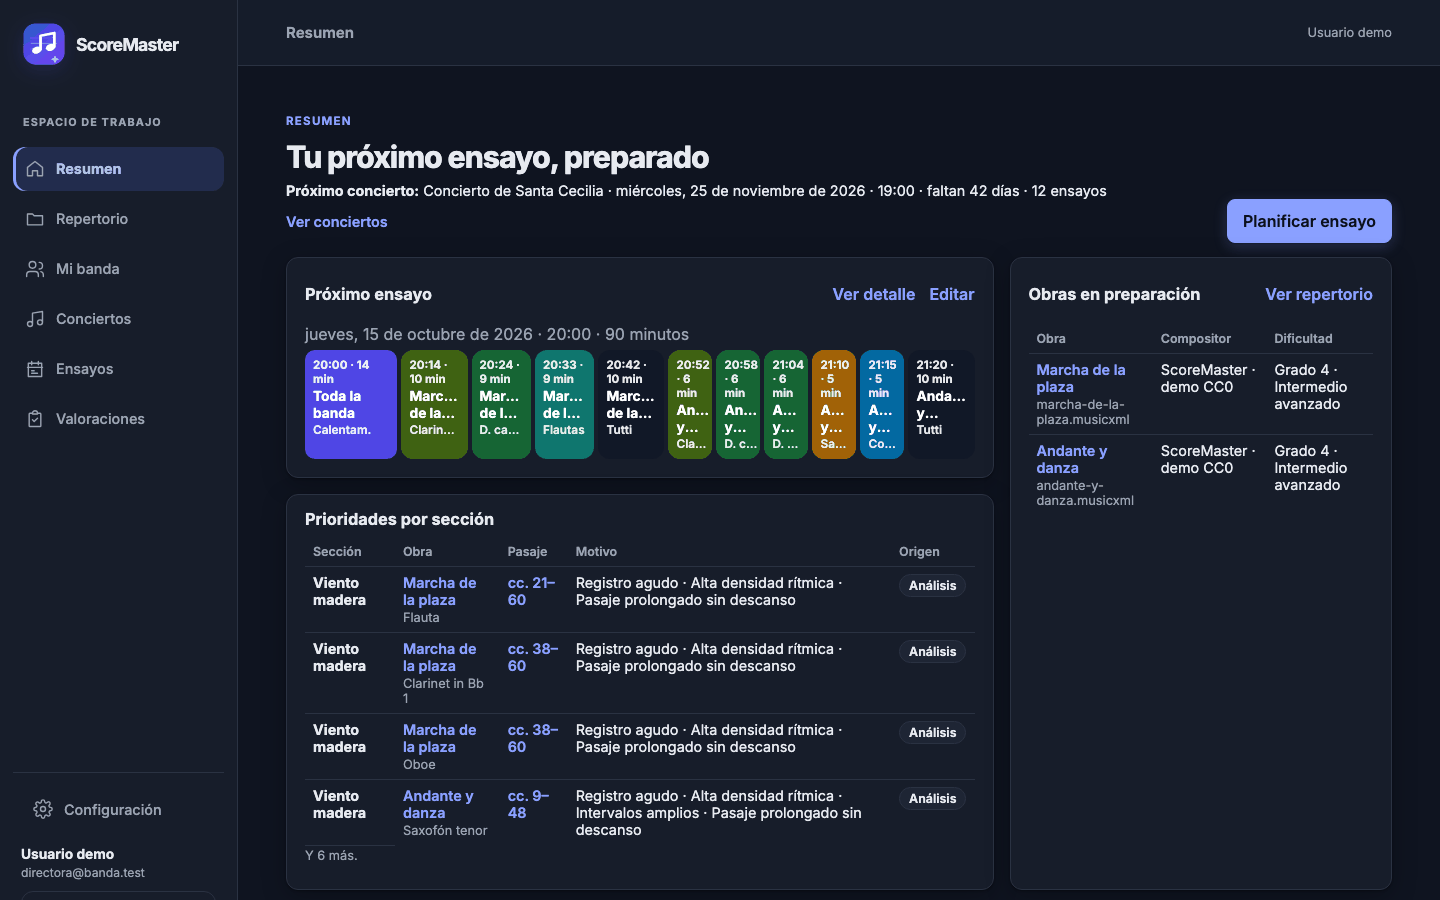
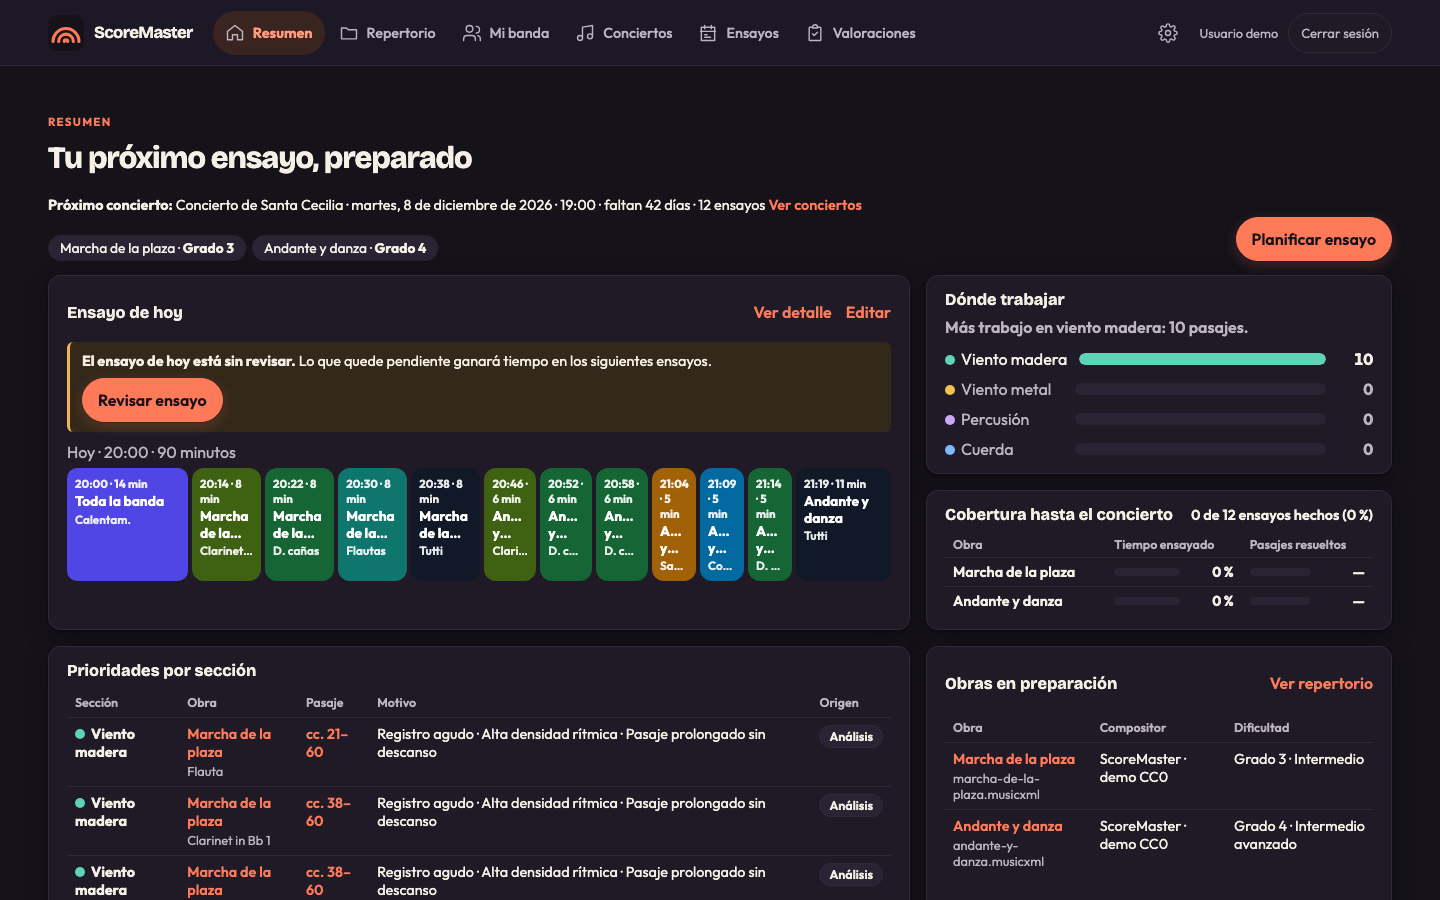
docs: capturas con el diseño «Sala de conciertos» y el plan al día con lo del 26 y 27 de octubre

diff --git a/docs/IMPLEMENTATION_ROADMAP.md b/docs/IMPLEMENTATION_ROADMAP.md
@@ -83,7 +83,8 @@ Las fases A3–A8 y el paso 25 se abordan solo si queda margen tras el paso 24.
 ## Propuesta de interfaz (2026-10-05)
 
 Navegación de la autora: Resumen · Repertorio · Mi banda · Ensayos · Asistente IA · Configuración,
-con blanco frío, grafito y azul eléctrico. Un ensayo puede trabajar varias obras y cada bloque de
+con blanco frío, grafito y azul eléctrico (sustituidos el 2026-10-26 por la identidad «Sala de conciertos»,
+más abajo). Un ensayo puede trabajar varias obras y cada bloque de
 su agenda indica la obra que se trabaja (decisiones de la autora).
 
 | Fase | Objetivo | Estado |
@@ -115,11 +116,11 @@ Entrega el 7 de noviembre. Decisiones de la autora: híbrido C preregistrado y o
 | 7 | Interfaz en inglés | Opcional | Pendiente, solo si queda tiempo |
 | 8 | Documentación de entrega | Imprescindible | Integrado: PR #107 (README, guía para el tribunal, seguridad, estados y licencia MIT) |
 
-Mejoras integradas durante el cierre, a petición de la autora: lectura del título de `<movement-title>` (PR #92), base de estilos única (PR #98), tipografía Inter (PR #99), modo oscuro (PR #100), sombras, transiciones y Resumen en cuadrícula (PR #101), equilibrio de volumen entre instrumentos (PR #102) y pentagramas del pasaje en partes de varios pentagramas (PR #103).
+Mejoras integradas durante el cierre, a petición de la autora: lectura del título de `<movement-title>` (PR #92), base de estilos única (PR #98), tipografía Inter (PR #99; sustituida por Bricolage Grotesque y Outfit en la PR #118), modo oscuro (PR #100), sombras, transiciones y Resumen en cuadrícula (PR #101), equilibrio de volumen entre instrumentos (PR #102) y pentagramas del pasaje en partes de varios pentagramas (PR #103).
 
 Opcional después de la entrega: búsqueda automática del grado publicado de una obra, como sugerencia que confirma la directora y solo cuando la página encontrada contiene título, compositor y grado (decisión de la autora, 2026-10-14).
 
-## Decisiones del 14 al 25 de octubre
+## Decisiones del 14 al 27 de octubre
 
 | Decisión | Estado |
 |---|---|
@@ -129,11 +130,25 @@ Opcional después de la entrega: búsqueda automática del grado publicado de un
 | La página se revalida tras cada despliegue | Integrado: PR #111 |
 | La base pasa a Neon, que no caduca; la aplicación sigue en Render | Integrado: PR #112 |
 | difficulty-v3: el grado sigue las guías de grados de las editoriales y explica qué criterio lo fija | Integrado: PR #113 (lectura de armadura, compás, tresillos, dinámicas, articulaciones y adornos) y PR #114 (rúbrica) |
-| difficulty-v4: la tabla de la Federación Galega de Bandas de Música prevalece sobre la del American Band College donde difieren (Do mayor sigue en grado 1); ninguna obra de referencia cambia de grado (2026-10-27) | Integrado en esta PR |
+| difficulty-v4: la tabla de la Federación Galega de Bandas de Música prevalece sobre la del American Band College donde difieren (Do mayor sigue en grado 1); ninguna obra de referencia cambia de grado (2026-10-27) | Integrado: PR #124 |
 | Segunda opinión con un modelo de pesos abiertos para el método B, junto a Gemini (Hugging Face o Vercel AI Gateway) | Pendiente de que la autora decida cómo pagar la API |
-| Lectura de PDF con copista-2m (modelo de Hugging Face, Apache 2.0), solo en Docker local | Pendiente: prueba de viabilidad con PDF de la autora; sustituye a Audiveris como candidata |
+| Lectura de PDF: prueba de viabilidad que compara copista-2m, copista-28m (Hugging Face, Apache 2.0) y Audiveris 5.11 con PDF digitales de obras con MusicXML de referencia (partituras generales y particellas); oemer y PDF2Muse, que se apoya en él, quedan descartados (2026-10-27) | Pendiente: lectura de los PDF por la autora y medida con ScoreLint |
 | Alojar la aplicación en Vercel | Aplazado a después de la entrega (ver [DEPLOYMENT.md](DEPLOYMENT.md)) |
 | Modelos de Hugging Face para la dificultad o bancos de sonido | Descartados: los de dificultad son de piano y no explicables; no hay bancos de viento con licencia clara |
+
+### Diseño y cuadro de mando (2026-10-26 y 27)
+
+| Decisión | Estado |
+|---|---|
+| El menú pasa a una barra superior y el contenido ocupa todo el ancho; en pantallas estrechas se pliega tras «Menú» | Integrado: PR #116 |
+| WCAG 2.1 A y AA como requisito legal: auditoría con axe-core en todas las pantallas (claro, oscuro y móvil) dentro de la CI | Integrado: PR #121 |
+| Identidad «Sala de conciertos»: paleta con contraste AA, Bricolage Grotesque y Outfit, botones de acción en píldora y logo de los arcos de la banda | Integrado: PR #118 |
+| Cuadro de mando de la directora: «Dónde trabajar» por familias y el programa del próximo concierto con su grado | Integrado: PR #119 |
+| La pantalla de acceso sigue la paleta, con el plano de la banda y el logo | Integrado: PR #120 |
+| «Cobertura hasta el concierto»: ensayos hechos y, por obra, tiempo ensayado y pasajes resueltos | Integrado: PR #122 |
+| authlib 1.9.1 por seis vulnerabilidades publicadas | Integrado: PR #125 |
+| El día del concierto el Resumen dice «Hoy» una vez | Integrado: PR #126 |
+| El icono de la pestaña lleva versión para que el navegador muestre el logo nuevo | Integrado: PR #127 |
 
 ## Mejoras para la nota (propuesta del 2026-10-25)
 

diff --git a/README.md b/README.md
@@ -11,7 +11,7 @@ Trabajo Fin de Máster del Máster de Desarrollo con IA de BigSchool · Licencia
 tardar alrededor de un minuto). La contraseña de la cuenta demo se entrega aparte; la
 [guía para el tribunal](docs/TRIBUNAL.md) propone un recorrido de cinco minutos.
 
-![Resumen: próximo ensayo con su agenda por bloques, prioridades por sección y obras en preparación](docs/img/resumen.png)
+![Resumen: próximo concierto con su programa, ensayo de hoy con su agenda por bloques, dónde trabajar, cobertura de los ensayos hasta el concierto, prioridades por sección y obras en preparación](docs/img/resumen.png)
 
 ## Qué responde
 
@@ -245,5 +245,5 @@ Las pautas de trabajo están en [CONTRIBUTING.md](CONTRIBUTING.md); [AGENTS.md](
   Karoryfer Samples, CC0; University of Iowa, sin restricciones) y la fuente General MIDI MusyngKite de
   [midi-js-soundfonts](https://github.com/gleitz/midi-js-soundfonts) (CC BY-SA 3.0). Se descargan de sus
   CDN durante la reproducción; no se incluyen en el repositorio.
-- **Tipografía**: Inter (SIL Open Font License), incluida en el build.
+- **Tipografía**: Bricolage Grotesque y Outfit (SIL Open Font License), incluidas en el build con `@fontsource-variable`.
 - **Obras de la demo**: composiciones originales de este repositorio, CC0 ([demo/LICENSES.md](demo/LICENSES.md)).
